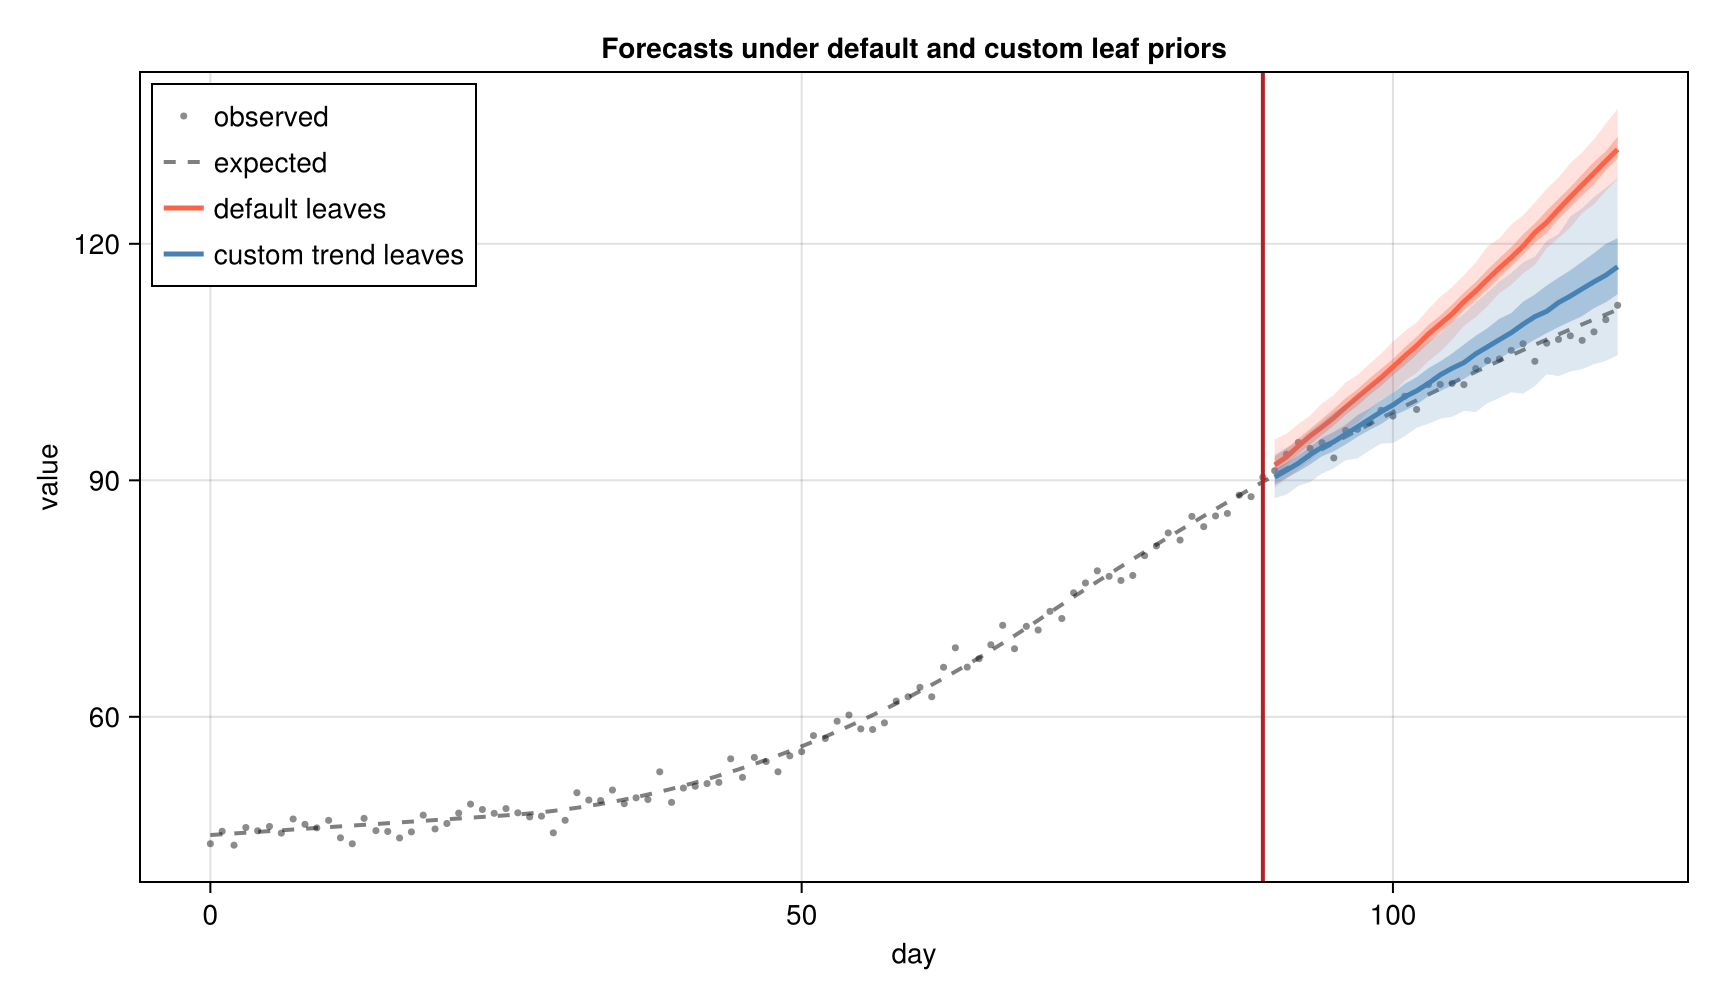
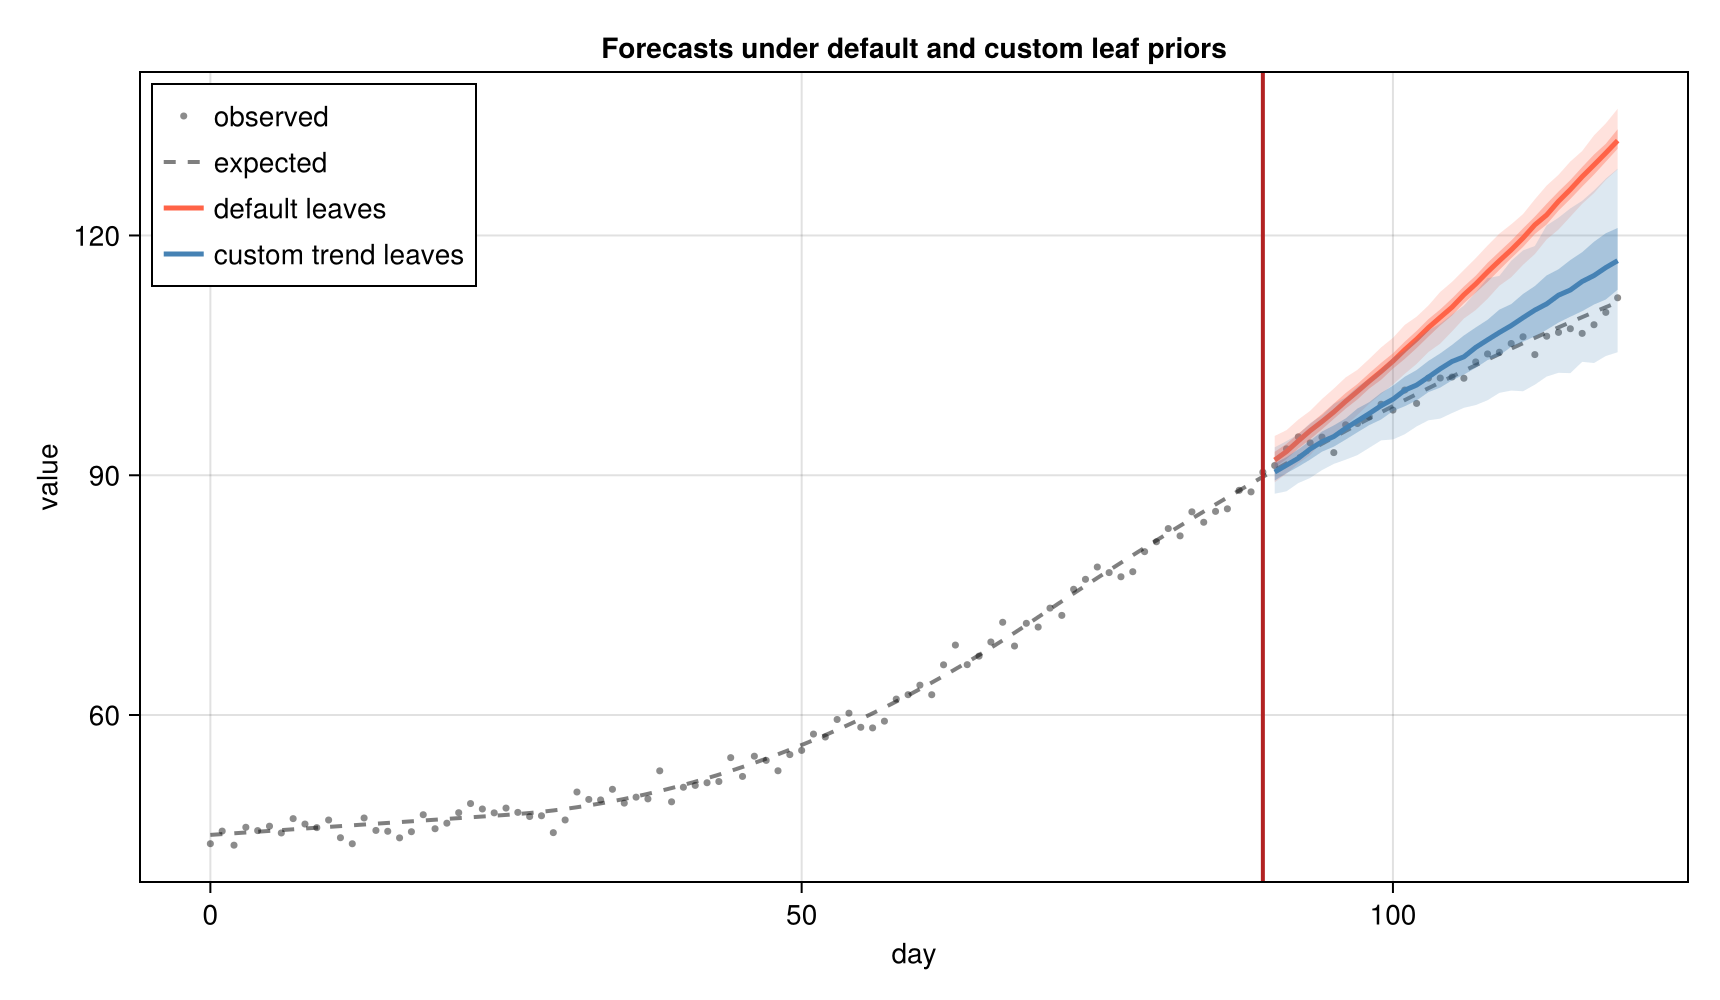
Refresh custom leaf kernels vignette
Limit `docs/make_vignettes.jl` to generating only `custom-leaf-kernels.jl` for this docs pass, then regenerate the vignette artifacts. The markdown and plot were updated with clearer non-stationary kernel wording, minor formatting cleanups, and refreshed sampled kernel/score outputs from the latest run.

diff --git a/docs/src/vignettes/custom-leaf-kernels.md b/docs/src/vignettes/custom-leaf-kernels.md
@@ -14,7 +14,8 @@ AutoGP leaf nodes:
 - `RandomWalk`, a Brownian-motion covariance for drifting levels.
 - `IntegratedBrownianMotion`, an integrated Brownian-motion covariance for drifting slopes.
 
-These kernels are non-stationary: their covariance depends on distance from the
+These kernels are non-stationary, which extends the set of non-stationary kernels available in `AutoGP`.
+Note that non-stationary kernels of time-varying processes have their covariance depend on distance from the
 start of the time axis, not just on pairwise distances. `AutoGP` rescales the
 training dates to `[0, 1]` before fitting, so both kernels are anchored at
 normalised time zero and sample only their variance `amplitude`.
@@ -92,7 +93,7 @@ normalize_prob(v) = v ./ sum(v)
 
 function trend_leaf_config(; changepoints = false, max_depth = 3)
     return GPConfig(
-        index_to_node = Dict{Integer,Type{<:AGP.GP.Node}}(
+        index_to_node = Dict{Integer, Type{<:AGP.GP.Node}}(
             1 => AGP.GP.Constant,
             2 => AGP.GP.Linear,
             3 => AGP.GP.SquaredExponential,
@@ -150,8 +151,8 @@ tt = collect(0:(n_all - 1))
 
 smooth_ramp(x) = x <= 0 ? 0.0 : x^2
 truth = [
-    45.0 + 0.10 * t + 0.010 * smooth_ramp(t - 25) - 0.014 * smooth_ramp(t - 70)
-    for t in tt
+    45.0 + 0.1 * t + 0.01 * smooth_ramp(t - 25) - 0.014 * smooth_ramp(t - 70)
+        for t in tt
 ]
 observations = truth .+ 1.2 .* randn(n_all)
 
@@ -217,14 +218,14 @@ AGP.GP.pretty.(AGP.covariance_kernels(trend_model; reparameterize = false))
 
 ````
 8-element Vector{String}:
- "(IBM(1.21) + CONST(0.39))"
- "((IBM(0.40) + IBM(0.23)) + CONST(0.37))"
- "(IBM(0.23) + (LIN(0.09; 0.12, 0.04) + IBM(0.54)))"
- "(IBM(0.27) + LIN(0.50; 0.06, 0.13))"
- "((IBM(1.81) * LIN(0.07; 0.51, 0.70)) + (LIN(0.06; 0.59, 0.07) + CONST(0.15)))"
- "(IBM(0.43) + LIN(0.04; 0.08, 0.17))"
- "(IBM(0.19) + (IBM(0.14) + CONST(0.13)))"
- "(IBM(0.61) + (CONST(0.06) + LIN(0.14; 0.07, 0.07)))"
+ "((IBM(0.32) + IBM(0.27)) + (CONST(0.19) * CONST(0.19)))"
+ "(IBM(0.66) + CONST(0.15))"
+ "(IBM(0.60) + (CONST(0.12) + CONST(0.08)))"
+ "(IBM(0.32) + (CONST(0.12) + IBM(0.37)))"
+ "(LIN(0.44; 0.10, 0.13) + (LIN(0.95; 0.10, 0.35) + IBM(0.41)))"
+ "((IBM(0.47) + LIN(0.27; 0.68, 0.08)) + IBM(0.28))"
+ "(LIN(0.06; 0.20, 1.35) + IBM(0.69))"
+ "(IBM(0.58) + LIN(0.13; 0.81, 0.13))"
 ````
 
 ## Forecast comparison
@@ -255,9 +256,9 @@ fig_forecasts = let
     lines!(ax, x_all, truth; color = (:black, 0.5), linestyle = :dash, linewidth = 2, label = "expected")
 
     for (fc, color, label) in (
-        (default_forecast, :tomato, "default leaves"),
-        (trend_forecast, :steelblue, "custom trend leaves"),
-    )
+            (default_forecast, :tomato, "default leaves"),
+            (trend_forecast, :steelblue, "custom trend leaves"),
+        )
         s = forecast_summary(fc)
         band!(ax, x_fc, s.lower_025, s.upper_975; color = (color, 0.18))
         band!(ax, x_fc, s.lower_25, s.upper_75; color = (color, 0.35))
@@ -297,7 +298,7 @@ scores = (;
 ````
 
 ````
-(default = 8.476082435796751, custom_trend_leaves = 1.6278334401985715)
+(default = 8.44995410061826, custom_trend_leaves = 1.6006683695774713)
 ````
 
 The absolute numbers will vary with the random seed and fitting settings, but
